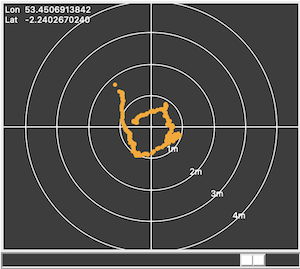
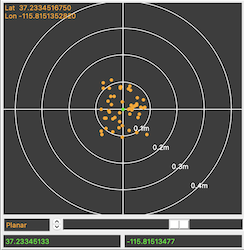
enhance scatter plot

diff --git a/src/pygpsclient/scatter_frame.py b/src/pygpsclient/scatter_frame.py
@@ -3,33 +3,37 @@ scatter_frame.py
 
 Scatterplot frame class for PyGPSClient Application.
 
-This generates a scatterplot of positions, centered on the average
-position.
+This generates a scatterplot of positions, centered on either
+the cumulative average position or a fixed reference position.
+
+The fixed reference position can be stored in the json
+configuration file as `scatterlat_f`/`scatterlon_f`.
 
 Created 23 March 2023
 
 Amended by semuadmin on 4 April 2023 to eliminate dependency on
 statistics and geographiclib libraries.
 
-:author: Nathan Michaels
+:author: Nathan Michaels, semuadmin
 :copyright: Qualinx B.V.
 :license: BSD 3-Clause
 """
 
 from collections import namedtuple
 from math import cos, radians, sin
+from random import randrange
 from tkinter import (
-    BOTH,
     HORIZONTAL,
-    LEFT,
-    NO,
-    YES,
+    E,
+    Entry,
     Frame,
     IntVar,
+    N,
+    S,
     Scale,
     Spinbox,
     StringVar,
-    X,
+    W,
     font,
 )
 
@@ -43,6 +47,7 @@ HAVERSINE = "Great Circle"
 MODES = (PLANAR, HAVERSINE)
 SQRT2 = 0.7071067811865476
 PNTCOL = "orange"
+FIXCOL = "green2"
 
 Point = namedtuple("Point", ["lat", "lon"])
 
@@ -62,6 +67,7 @@ class ScatterViewFrame(Frame):
         """
         self.__app = app
         self.__master = self.__app.appmaster
+        config = self.__app.saved_config
 
         Frame.__init__(self, self.__master, *args, **kwargs)
 
@@ -73,18 +79,25 @@ class ScatterViewFrame(Frame):
         self.one_meter = 1
         self.mean = None
         self.scale = IntVar()
-        self.scale.set(6)
-        self.scale_factors = (100, 50, 25, 20, 15, 10, 5, 1, 0.1)
+        self.reflat = StringVar()
+        self.reflon = StringVar()
+        self.reflat.set(config.get("scatterlat_f", "Reference Lat"))
+        self.reflon.set(config.get("scatterlon_f", "Reference Lon"))
+        self.scale.set(config.get("scatterscale_n", 6))
+        self.scale_factors = (100, 50, 25, 10, 5, 1, 0.1, 0.05, 0.025, 0.01)
         self.mode = StringVar()
-        self.mode.set(PLANAR)
+        self.mode.set(config.get("scattermode_s", PLANAR))
         self._body()
         self._attach_events()
 
     def _body(self):
         """Set up frame and widgets."""
 
-        self.grid_columnconfigure(0, weight=1)
+        for i in range(4):
+            self.grid_columnconfigure(i, weight=1, uniform="ent")
         self.grid_rowconfigure(0, weight=1)
+        self.grid_rowconfigure(1, weight=0)
+        self.grid_rowconfigure(2, weight=0)
         self.canvas = Canvas(self, width=self.width, height=self.height, bg=BGCOL)
         self.spn_mode = Spinbox(
             self,
@@ -107,9 +120,23 @@ class ScatterViewFrame(Frame):
             showvalue=False,
             command=self._rescale,
         )
-        self.canvas.pack(fill=BOTH, expand=YES)
-        self.spn_mode.pack(side=LEFT, expand=NO)
-        self.scale_widget.pack(side=LEFT, fill=X, expand=YES)
+        self.ent_reflat = Entry(
+            self,
+            textvariable=self.reflat,
+            fg=FIXCOL,
+            bg=BGCOL,
+        )
+        self.ent_reflon = Entry(
+            self,
+            textvariable=self.reflon,
+            fg=FIXCOL,
+            bg=BGCOL,
+        )
+        self.canvas.grid(column=0, row=0, columnspan=4, sticky=(N, S, E, W))
+        self.spn_mode.grid(column=0, row=1)
+        self.scale_widget.grid(column=1, row=1, columnspan=3, sticky=(W, E))
+        self.ent_reflat.grid(column=0, row=2, columnspan=2, sticky=(W, E))
+        self.ent_reflon.grid(column=2, row=2, columnspan=2, sticky=(W, E))
 
     def _attach_events(self):
         """
@@ -217,12 +244,13 @@ class ScatterViewFrame(Frame):
         self.one_meter = (maxr * 0.25) / m_per_circle
         self._draw_mean(lbl_font)
 
-    def draw_point(self, center: Point, position: Point):
+    def draw_point(self, center: Point, position: Point, color: str = PNTCOL):
         """
         Draw a Point on the scatterplot, given a center Point.
 
         :param Point center: The center of the plot
         :param Point position: The point to draw
+        :param str color: point color as string e.g. "orange"
         """
 
         if self.mode.get() == PLANAR:  # use planar approximation formula (returns m)
@@ -240,7 +268,7 @@ class ScatterViewFrame(Frame):
         center_y = self.height / 2
         pt_x = center_x + pos_x
         pt_y = center_y - pos_y
-        self.canvas.create_circle(pt_x, pt_y, 2, fill=PNTCOL, outline=PNTCOL)
+        self.canvas.create_circle(pt_x, pt_y, 2, fill=color, outline=color)
 
     def _ave_pos(self):
         """
@@ -258,16 +286,26 @@ class ScatterViewFrame(Frame):
         """
         Redraw all the points on the scatter plot.
         """
+
         if not self.points:
             return
-        middle = self._ave_pos()
+
+        ref = False  # centered on average position
+        try:
+            middle = Point(float(self.reflat.get()), float(self.reflon.get()))
+            ref = True  # centered on fixed reference position
+        except ValueError:
+            middle = self._ave_pos()
         for pnt in self.points:
             self.draw_point(middle, pnt)
+        if ref:
+            self.draw_point(middle, middle, FIXCOL)
 
     def update_frame(self):
         """
         Collect scatterplot data and update the plot.
         """
+
         lat, lon = self.__app.gnss_status.lat, self.__app.gnss_status.lon
         try:
             lat = float(lat)

diff --git a/README.md b/README.md
@@ -253,7 +253,7 @@ You will need to logout and login for the launcher to take effect.
 |![import custom map](https://github.com/semuconsulting/PyGPSClient/blob/master/images/importcustommap.png?raw=true)| <a name="custommap">Import Custom Map dialog</a>. Click ![load icon](https://github.com/semuconsulting/PyGPSClient/blob/master/src/pygpsclient/resources/iconmonstr-folder-18-24.png?raw=true) to open the custom map image location (*the default file suffix is `*.gif` - select Show Options to select any file suffix `*.*`*). If the `rasterio` library is installed and the image is georeferenced (e.g. using [QGIS](https://qgis.org/)), the bounding box will be automatically extracted - otherwise it must be entered manually. Import the custom map path and bounding box settings by clicking ![play icon](https://github.com/semuconsulting/PyGPSClient/blob/master/src/pygpsclient/resources/iconmonstr-arrow-12-24.png?raw=true).|
 |![spectrum widget](https://github.com/semuconsulting/PyGPSClient/blob/master/images/spectrum_widget.png?raw=true)| Spectrum widget showing a spectrum analysis chart (*GNSS receiver must be capable of outputting UBX MON-SPAN messages*). Clicking anywhere in the spectrum chart will display the frequency and decibel reading at that point. Double-clicking anywhere in the chart will toggle the GNSS frequency band markers (L1, G2, etc.) on or off. **NB:** Some receivers (e.g. NEO-F10N) will not output the requisite MON-SPAN messages unless the port baud rate is at least 57,600. |
 |![sysmon widget](https://github.com/semuconsulting/PyGPSClient/blob/master/images/sysmon_widget.png?raw=true)| System Monitor widget showing device cpu, memory and I/O utilisation (*GNSS receiver must be capable of outputting UBX MON-SYS and/or MON-COMMS messages*). Tick checkbox to toggle between actual (cumulative) I/O stats and pending I/O. |
-|![scatterplot widget](https://github.com/semuconsulting/PyGPSClient/blob/master/images/scatterplot_widget.png?raw=true)| Scatterplot widget showing variability in position reporting over time. Select from either Planar or Great Circle (haversine) distance approximation mode. Double-click to clear existing plot. |
+|![scatterplot widget](https://github.com/semuconsulting/PyGPSClient/blob/master/images/scatterplot_widget.png?raw=true)| Scatterplot widget showing variability in position reporting over time, relative to either the cumulative average position (*displayed at top left*), or (*if entered*) a fixed reference position. Select from either Planar or Great Circle (haversine) distance approximation mode. Double-click to clear existing plot. The default mode, scale index and fixed reference position can be stored in the json configuration file as `scattermode_s`/`scatterscale_n`/`scatterlat_f`/`scatterlon_f`. |
 |![rover widget](https://github.com/semuconsulting/PyGPSClient/blob/master/images/rover_widget.png?raw=true) | Rover widget plots the relative 2D position, track and status information for the roving receiver in a fixed or moving base / rover RTK configuration. Can also display relative position of NTRIP mountpoint and receiver in a static RTK configuration. Double-click to clear existing plot. (*GNSS rover receiver must be capable of outputting UBX NAV-RELPOSNED messages.*) |
 ---
 ## <a name="ubxconfig">UBX Configuration Facilities</a>

diff --git a/RELEASE_NOTES.md b/RELEASE_NOTES.md
@@ -2,8 +2,9 @@
 
 ### RELEASE 1.4.25
 
-FIXES:
+ENHANCEMENTS:
 
+1. Enhance scatterplot widget to extend zoom range to 0.01m and add optional fixed reference position. Delivers #160 and #161.
 1. Minor improvements to datalogging and track recording.
 
 ### RELEASE 1.4.24
